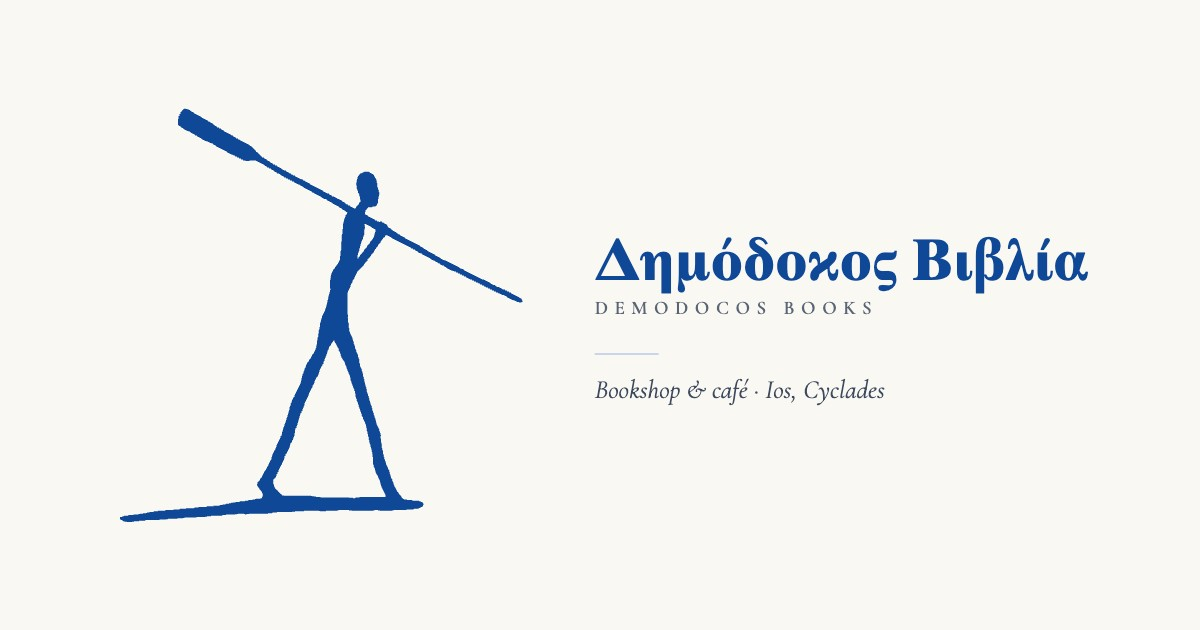
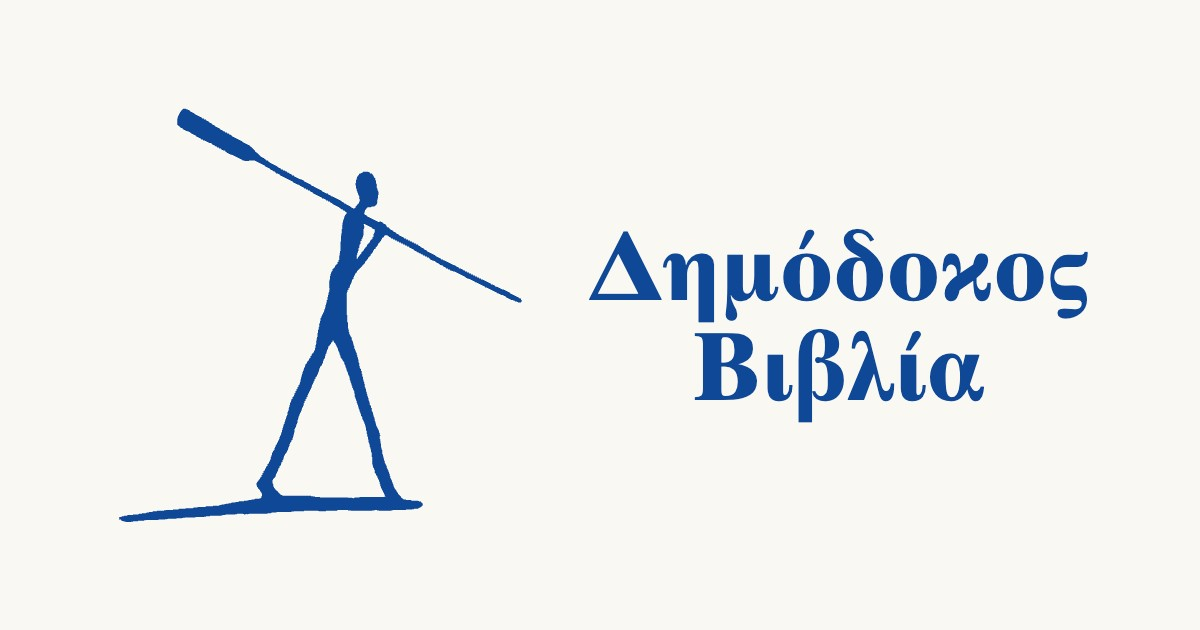
Image de partage : agrandit le titre, garde le grec seul sur 2 lignes
Le texte de la carte sociale était trop petit, surtout sur mobile (retour de
Christophe). On retire le sous-titre latin « DEMODOCOS BOOKS » et la tagline, et on
garde le seul titre grec « Δημόδοκος / Βιβλία » sur 2 lignes, en grand (Playfair 96px),
à côté du porteur de rame. assets/og-card.jpg régénérée (1200×630).

Changed region(s): [[0.4933, 0.3619, 0.925, 0.6937], [0.3083, 0.3619, 0.3392, 0.3921], [0.2775, 0.3921, 0.3083, 0.4222]]

diff --git a/assets/ILLUSTRATIONS.md b/assets/ILLUSTRATIONS.md
@@ -33,10 +33,11 @@ habiller les pages.
 
 > **Carte de partage social** — `assets/og-card.jpg` (1200×630, JPEG). Ce n'est **pas** une
 > illustration du moodboard : c'est un lockup **du logo principal** (le porteur de rame,
-> `oar-bearer.svg`) + le nom « Δημόδοκος Βιβλία / Demodocos Books » et la tagline
-> « Bookshop & café · Ios, Cyclades », composé sur le fond papier. C'est l'image affichée
-> quand on partage un lien du site (balises `og:image` / `twitter:image` de toutes les pages).
-> Régénérée en dessinant la page dans un `<canvas>` (vraies polices) — voir l'historique Git.
+> `oar-bearer.svg`) + le titre grec **« Δημόδοκος / Βιβλία » sur 2 lignes** (Playfair, grand),
+> sur le fond papier. Sous-titre latin et tagline **retirés** (texte trop petit, surtout sur
+> mobile — demande de Christophe). C'est l'image affichée quand on partage un lien du site
+> (balises `og:image` / `twitter:image` de toutes les pages). Régénérée en dessinant la page
+> dans un `<canvas>` avec les vraies polices — voir l'historique Git.
 
 ## Conventions d'intégration
 
